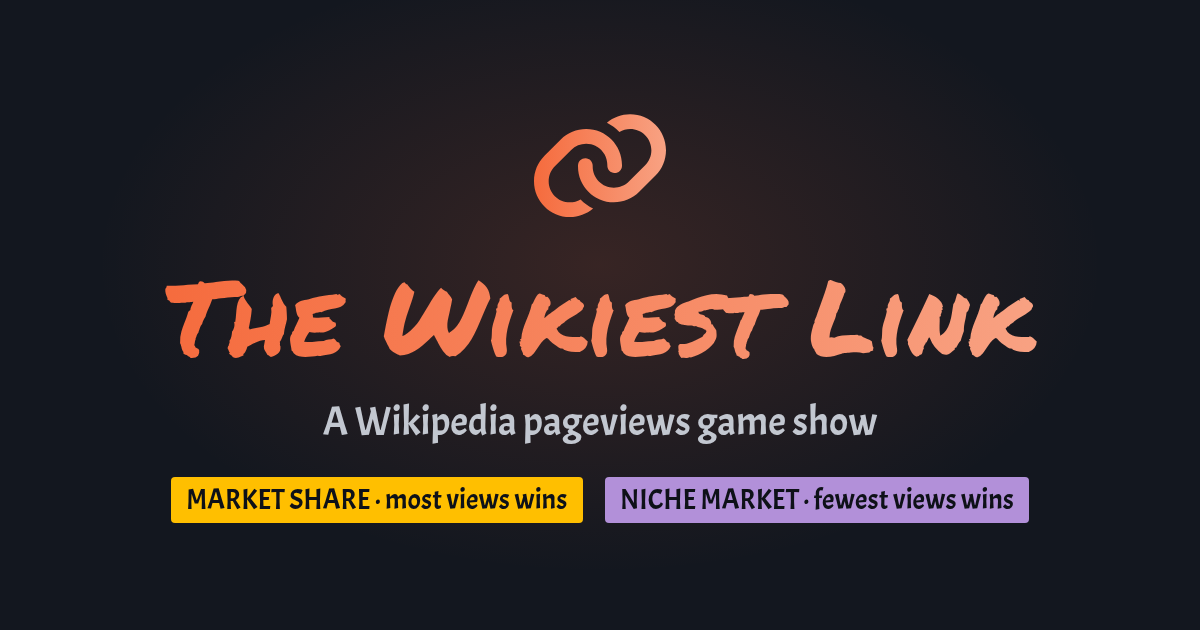
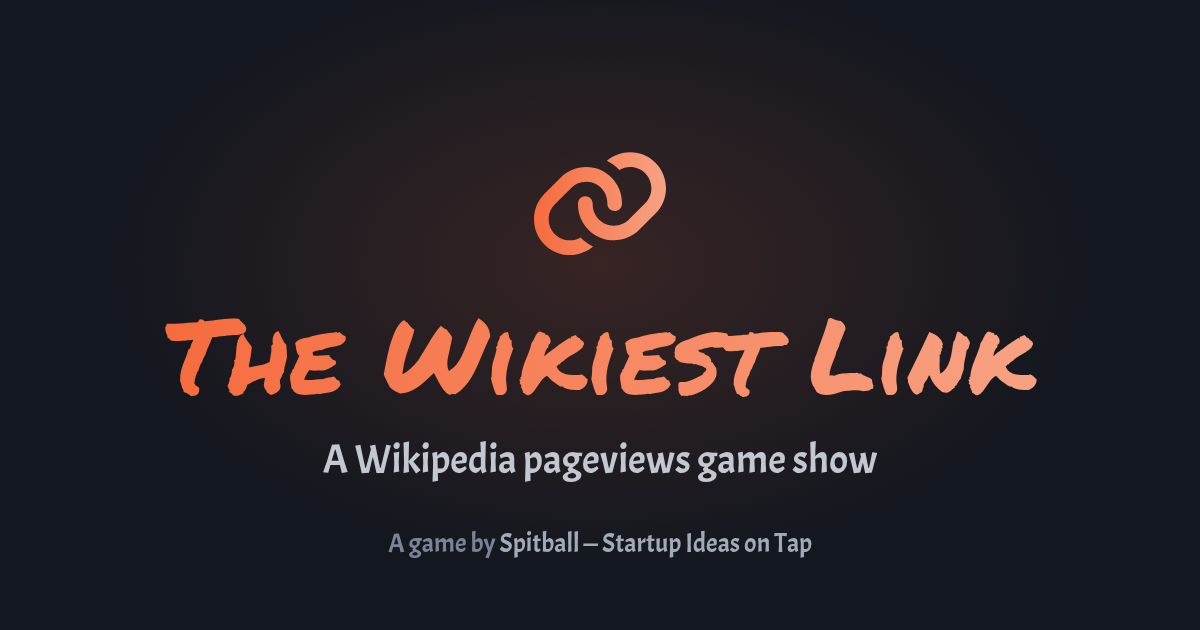
Footer and OpenGraph Tweaks

Changed region(s): [[0.1233, 0.4222, 0.8633, 0.9048], [0.4317, 0.181, 0.555, 0.4222]]

diff --git a/index.html b/index.html
@@ -21,7 +21,7 @@
   <meta property="og:image:type" content="image/png">
   <meta property="og:image:width" content="1200">
   <meta property="og:image:height" content="630">
-  <meta property="og:image:alt" content="The Wikiest Link wordmark in orange marker lettering, the tagline “A Wikipedia pageviews game show”, and chips reading “Market Share · most views wins” and “Niche Market · fewest views wins”.">
+  <meta property="og:image:alt" content="The Wikiest Link wordmark in orange marker lettering above the tagline “A Wikipedia pageviews game show” and the credit “A game by Spitball — Startup Ideas on Tap”.">
   <meta name="twitter:card" content="summary_large_image">
   <script type="application/ld+json">
     {
@@ -92,6 +92,7 @@
     /* The grid gap spaces the welcome cards, so they drop Pico's card and paragraph bottom margins. */
     #welcome .grid { margin-bottom: var(--pico-block-spacing-vertical); }
     #welcome article, #welcome article > :last-child { margin-bottom: 0; }
+    body > footer { color: var(--pico-muted-color); }
     /* On narrow screens the header buttons wrap below the title, still right-aligned. */
     nav { flex-wrap: wrap; }
     nav ul:last-of-type { margin-left: auto; }
@@ -433,6 +434,10 @@
       </form>
     </details>
   </main>
+
+  <footer class="container">
+    <small>A game by <a href="https://spitball.show" target="_blank">Spitball — Startup Ideas on Tap</a></small>
+  </footer>
 
   <dialog id="confirm-new" aria-labelledby="confirm-new-title">
     <article>

diff --git a/css/app.css b/css/app.css
@@ -11,7 +11,7 @@
 }
 
 /* Acme and Permanent Marker ship one weight, so bold text in them keeps it instead of a synthesized bold. */
-h2, nav, mark, #sb-players > article > p, #sb-standings, #sb-upnext {
+h2, nav, mark, #sb-players > article > p, #sb-standings, #sb-footer {
   font-family: var(--display-font);
   font-synthesis-weight: none;
 }
@@ -117,4 +117,17 @@ h1 {
 #sb-reveal table,
 #sb-standings table {
   font-size: 1.5rem;
+}
+
+/* Up next and the credit share the bottom row, which stays at the stage's foot when no section fills it. */
+#sb-footer {
+  display: flex;
+  align-items: baseline;
+  gap: var(--pico-spacing);
+  margin-top: auto;
+}
+
+#sb-credit {
+  margin-left: auto;
+  color: var(--pico-muted-color);
 }

diff --git a/scoreboard.html b/scoreboard.html
@@ -53,9 +53,12 @@
       </footer>
     </article>
 
-    <footer id="sb-upnext">
-      <small><span class="fa-solid fa-angles-right" aria-hidden="true"></span> UP NEXT</small>
-      <strong id="sb-next"></strong>
+    <footer id="sb-footer">
+      <div id="sb-upnext">
+        <small><span class="fa-solid fa-angles-right" aria-hidden="true"></span> UP NEXT</small>
+        <strong id="sb-next"></strong>
+      </div>
+      <small id="sb-credit">A game by <a href="https://spitball.show" target="_blank">Spitball — Startup Ideas on Tap</a></small>
     </footer>
   </main>
 
